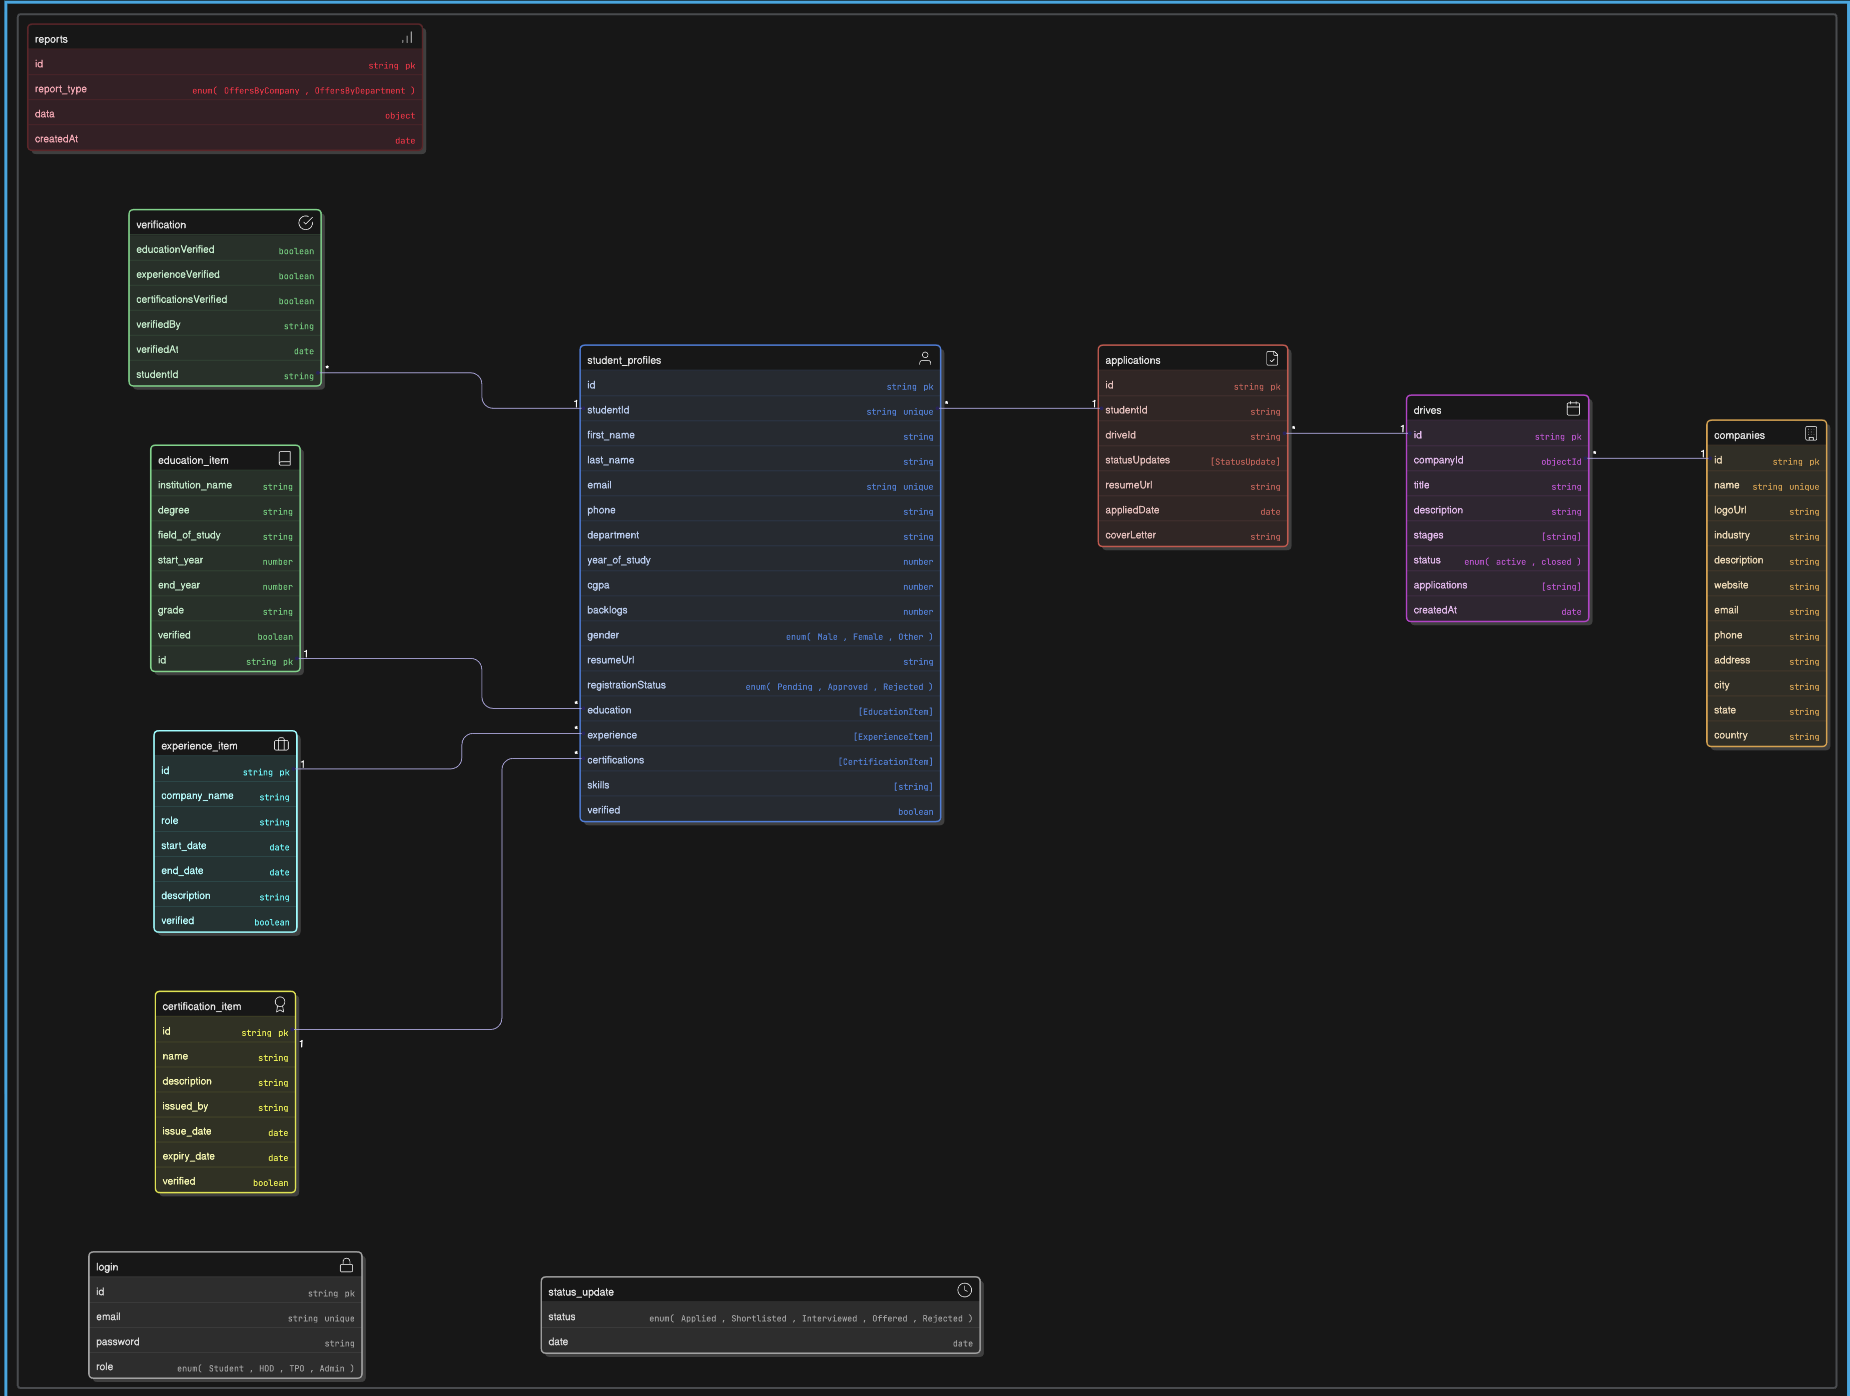
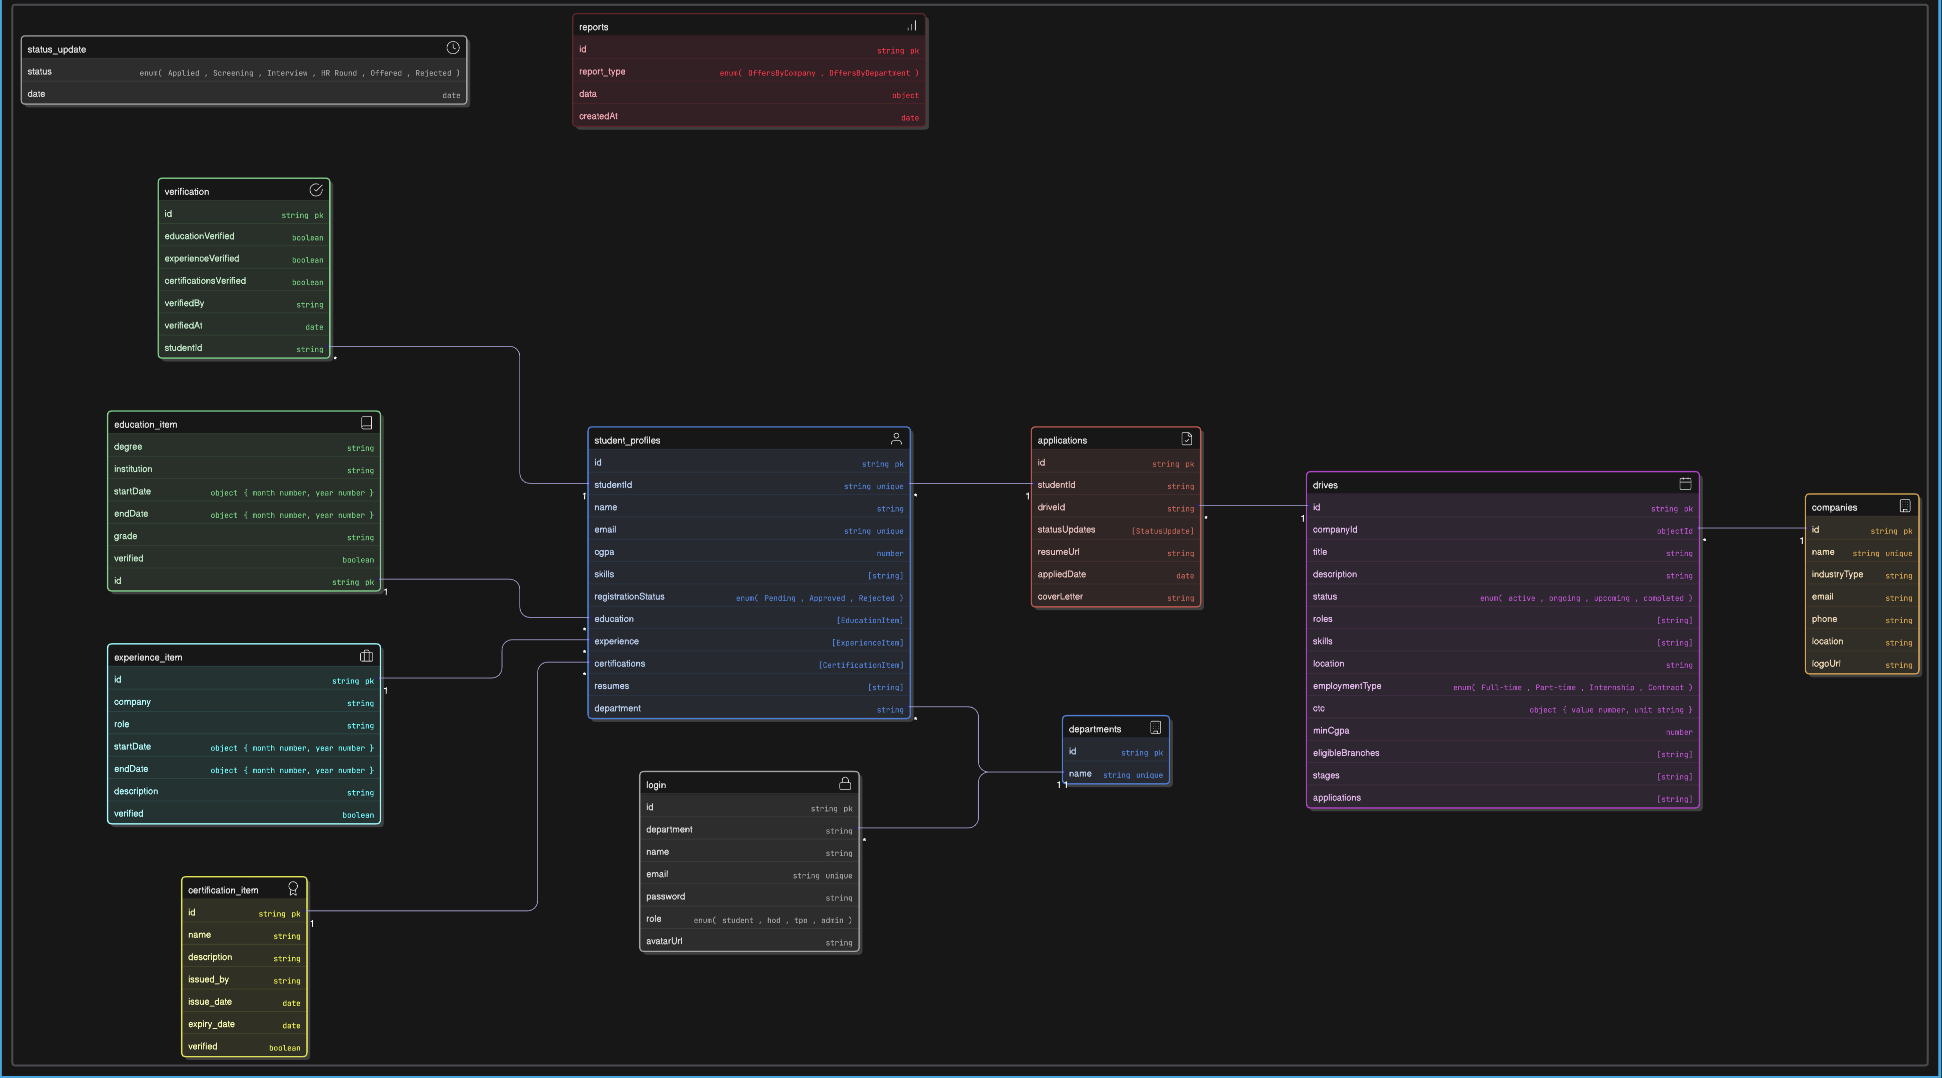
Updated README.md

diff --git a/README.md b/README.md
@@ -193,6 +193,226 @@ xx
 
 # 🏫 ZAPDOS Connect Backend
 
+A **Next.js server-side backend** connected to **MongoDB** for managing authentication, student profiles, companies, placement drives, applications, verifications, and reports in a **campus placement management system**.
+
+---
+
+## 🚀 Overview
+
+This backend powers the **ZAPDOS Connect Platform**, enabling seamless role-based operations for **Students**, **TPOs**, and **HODs**.
+
+It provides CRUD APIs and business logic for:
+- 🔐 User authentication  
+- 🎓 Student profile management  
+- 🏢 Company & drive management  
+- 📝 Application tracking  
+- ✅ Verification and approvals  
+- 📊 Placement analytics & reporting  
+
+Built with **Next.js (App Router)**, **TypeScript**, and **MongoDB**, using modular server-side functions for scalability and performance.
+
+---
+
+## 🧩 Database Schema
+
+![Database Schema](./db.png)
+
+---
+
+## 🗄 Core Collections and Their Purpose
+
+### 🧑💻 `login`
+Stores user authentication data and role-based access.
+
+| Field | Type | Description |
+|-------|------|-------------|
+| `_id` | ObjectId | Unique identifier |
+| `name` | String | Full name of user |
+| `email` | String | User email (unique) |
+| `password` | String | Encrypted password |
+| `role` | String | `"student"`, `"hod"`, `"tpo"`, `"admin"` |
+| `department` | String | Associated department (if applicable) |
+| `avatarUrl` | String | Profile image |
+
+---
+
+### 🏛 `departments`
+List of academic departments in the institution.
+
+| Field | Type | Description |
+|-------|------|-------------|
+| `_id` | ObjectId | Unique ID |
+| `name` | String | Department name (e.g. "Computer Science") |
+
+---
+
+### 🎓 `student_profiles`
+Holds comprehensive student details, academic data, and verification status.
+
+| Field | Type | Description |
+|-------|------|-------------|
+| `_id` | ObjectId | Unique identifier |
+| `studentId` | String | Unique student reference (maps to login) |
+| `name` | String | Student name |
+| `email` | String | Student email |
+| `department` | String | Department name |
+| `cgpa` | Number | Current CGPA |
+| `skills` | [String] | Technical skills |
+| `registrationStatus` | String | `"Pending"`, `"Approved"`, `"Rejected"` |
+| `education` | [EducationItem] | Educational qualifications |
+| `experience` | [ExperienceItem] | Work/internship history |
+| `certifications` | [CertificationItem] | Certificates earned |
+| `resumes` | [String] | Uploaded resume URLs |
+
+---
+
+### 📘 `education_item`
+Stores student educational details.
+
+| Field | Type | Description |
+|-------|------|-------------|
+| `id` | String | Unique record ID |
+| `degree` | String | e.g. “B.Tech CS” |
+| `institution` | String | Name of college/university |
+| `startDate` | Object | `{ month, year }` |
+| `endDate` | Object | `{ month, year }` |
+| `grade` | String | e.g. “A+” |
+| `verified` | Boolean | Verified by TPO |
+
+---
+
+### 🧰 `experience_item`
+Contains internship or professional experience entries.
+
+| Field | Type | Description |
+|-------|------|-------------|
+| `id` | String | Unique record ID |
+| `company` | String | Company name |
+| `role` | String | Position or title |
+| `startDate` | Object | `{ month, year }` |
+| `endDate` | Object | `{ month, year }` |
+| `description` | String | Responsibilities summary |
+| `verified` | Boolean | Verified by TPO |
+
+---
+
+### 🏅 `certification_item`
+List of certifications acquired by students.
+
+| Field | Type | Description |
+|-------|------|-------------|
+| `id` | String | Unique ID |
+| `name` | String | Certificate name |
+| `description` | String | About the certification |
+| `issued_by` | String | Issuing authority |
+| `issue_date` | Date | Date of issue |
+| `expiry_date` | Date | Expiry date, if applicable |
+| `verified` | Boolean | Verified by TPO |
+
+---
+
+### 🏢 `companies`
+Stores company and recruiter information.
+
+| Field | Type | Description |
+|-------|------|-------------|
+| `_id` | ObjectId | Unique company ID |
+| `name` | String | Company name (unique) |
+| `industryType` | String | Domain or industry |
+| `email` | String | Contact email |
+| `phone` | String | Contact phone number |
+| `location` | String | Company base location |
+| `logoUrl` | String | Company logo image |
+
+---
+
+### 📅 `drives`
+Represents placement or internship drives created by TPOs.
+
+| Field | Type | Description |
+|-------|------|-------------|
+| `_id` | ObjectId | Unique drive ID |
+| `companyId` | ObjectId | Reference to `companies` |
+| `title` | String | Drive title |
+| `description` | String | Overview of the drive |
+| `status` | String | `"active"`, `"ongoing"`, `"upcoming"`, `"completed"` |
+| `roles` | [String] | Roles offered |
+| `skills` | [String] | Required skills |
+| `location` | String | Drive location |
+| `employmentType` | String | `"Full-time"`, `"Internship"`, etc. |
+| `ctc` | Object | `{ value, unit }` e.g. `{ 15, "LPA" }` |
+| `minCgpa` | Number | Minimum eligibility CGPA |
+| `eligibleBranches` | [String] | List of eligible departments |
+| `stages` | [String] | Drive process (Applied → Interview → Offered) |
+| `applications` | [String] | Student IDs who applied |
+
+---
+
+### 📝 `applications`
+Connects students to the drives they’ve applied for.
+
+| Field | Type | Description |
+|-------|------|-------------|
+| `_id` | ObjectId | Unique ID |
+| `studentId` | String | Reference to `student_profiles.studentId` |
+| `driveId` | String | Reference to `drives.id` |
+| `statusUpdates` | [StatusUpdate] | Logs of application progress |
+| `resumeUrl` | String | Submitted resume |
+| `coverLetter` | String | Application cover letter |
+| `appliedDate` | Date | Submission date |
+
+---
+
+### ⏱ `status_update`
+Tracks each application’s progression through stages.
+
+| Field | Type | Description |
+|-------|------|-------------|
+| `status` | String | `"Applied"`, `"Screening"`, `"Interview"`, `"Offered"`, `"Rejected"` |
+| `date` | Date | Status timestamp |
+
+---
+
+### ✅ `verification`
+Maintains verification records for student profiles.
+
+| Field | Type | Description |
+|-------|------|-------------|
+| `_id` | ObjectId | Unique ID |
+| `studentId` | String | Student reference |
+| `educationVerified` | Boolean | Education verified |
+| `experienceVerified` | Boolean | Experience verified |
+| `certificationsVerified` | Boolean | Certifications verified |
+| `verifiedBy` | String | TPO’s user ID |
+| `verifiedAt` | Date | Verification timestamp |
+
+---
+
+### 📊 `reports`
+Stores system-generated placement analytics.
+
+| Field | Type | Description |
+|-------|------|-------------|
+| `_id` | ObjectId | Unique ID |
+| `report_type` | String | `"OffersByCompany"` or `"OffersByDepartment"` |
+| `data` | Object | Aggregated statistics |
+| `createdAt` | Date | Report generation time |
+
+---
+
+## 🔗 Relationships
+
+```text
+login.department > departments.name
+student_profiles.studentId > applications.studentId
+applications.driveId > drives.id
+drives.companyId > companies.id
+education_item.id < student_profiles.education
+experience_item.id < student_profiles.experience
+certification_item.id < student_profiles.certifications
+verification.studentId > student_profiles.studentId
+
+
 A **Next.js server-side backend** that connects to a **MongoDB database** for managing users, companies, student profiles, recruitment drives, applications, and reports in a **campus recruitment system**.
 
 ---
